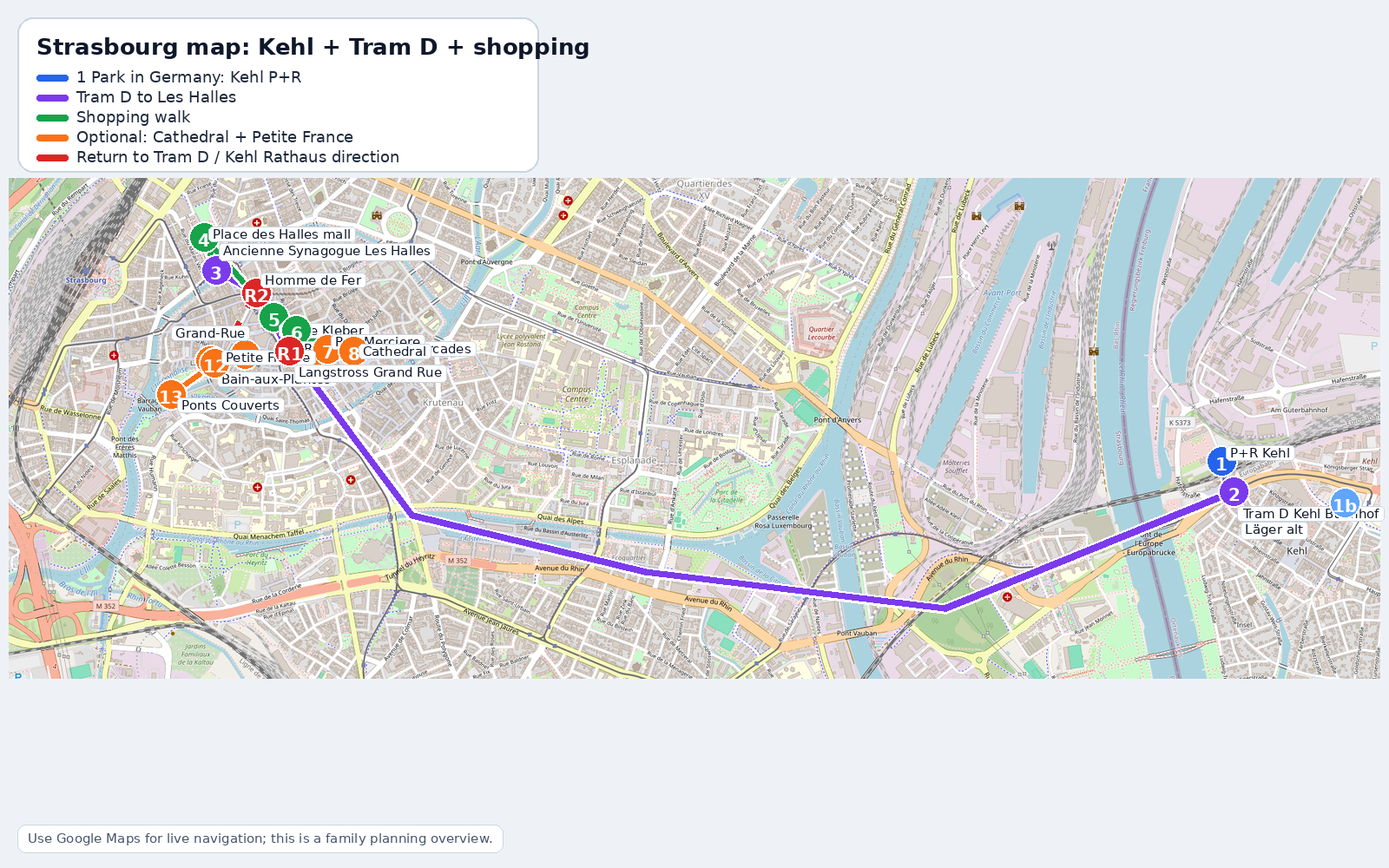
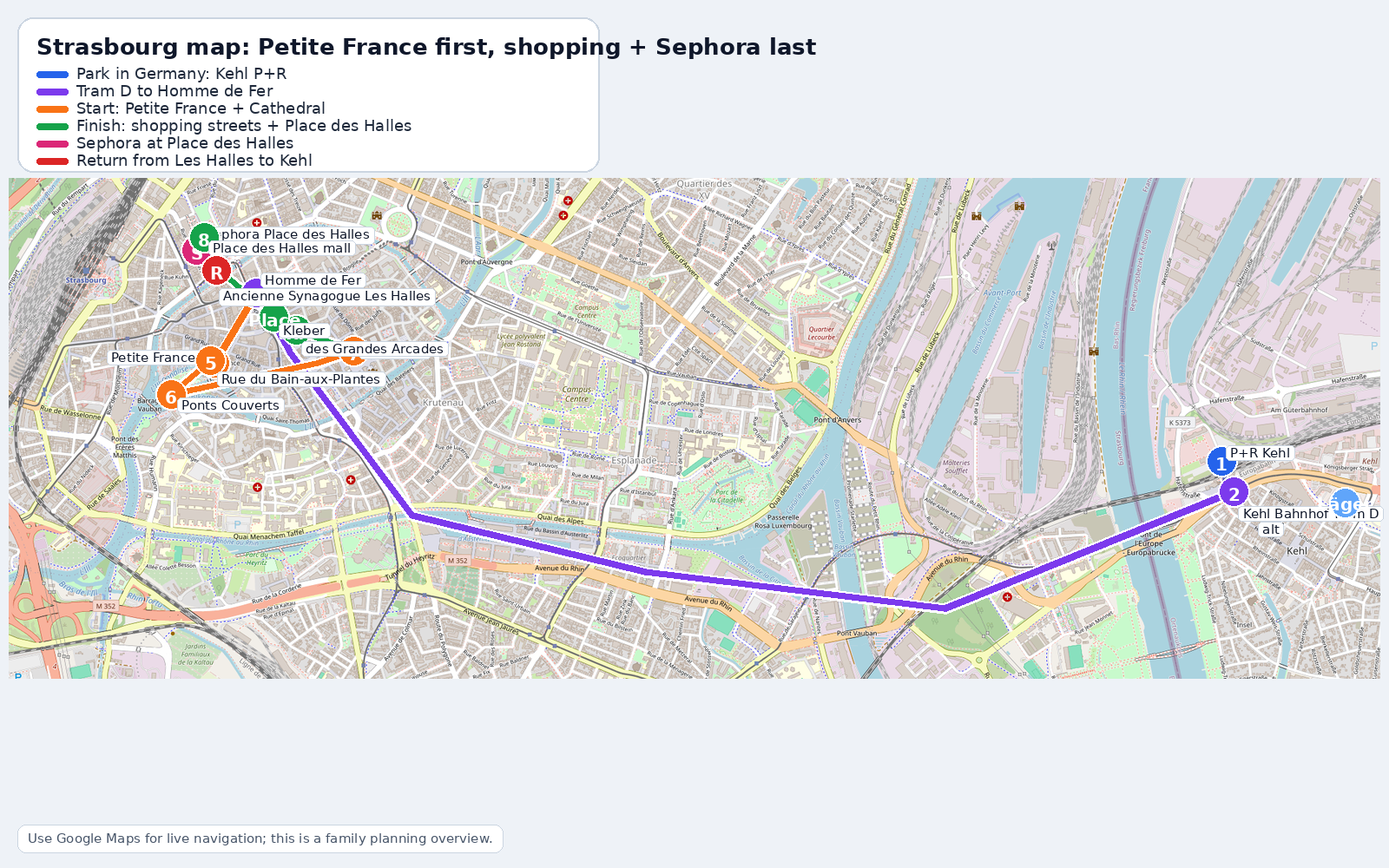
Update Strasbourg route for Petite France and Sephora

Changed region(s): [[0.0625, 0.248, 0.3438, 0.465], [0.0, 0.031, 0.5938, 0.186], [0.875, 0.558, 1.0, 0.62]]

diff --git a/index.html b/index.html
@@ -114,7 +114,7 @@
 <details class="day" id="day-2026-09-29" data-trip-date="2026-09-29"><summary><div class="date">29.09<small>שלישי</small></div><div class="day-photo"><img src="assets/europa_park_new.jpg" alt="Europa-Park"></div><div class="day-title"><h3>Europa-Park</h3><p>יום פארק מלא — השיא הראשון מבסיס Hotel La Toscana.</p></div><div class="tap"><span>פתח פרטים <b class="chev">⌄</b></span></div></summary><div class="day-details"><div class="detail-grid"><div class="detail-box"><h4>תוכנית היום</h4><ol><li>08:30–08:45 — להגיע מוקדם, אחרי ארוחת בוקר קצרה, עם כרטיסים וחניה מוכנים מראש.</li><li>09:00–18:00 — <a class="attraction-link ltr" target="_blank" rel="noopener" href="https://www.europapark.de/en/theme-park">Europa-Park</a> יום מלא.</li><li>להתחיל במתקנים הגדולים לפי עומס: Voltron, Blue Fire, WODAN ו־Silver Star, בלי לקפוץ כל הזמן בין קצוות הפארק.</li><li>להשתמש ב־VirtualLine וב־Single Rider כשזה מתאים, במיוחד לסיבוב שני או כשלא חייבים לשבת יחד.</li><li>אמצע היום — לעצור באזור שווייץ למילוי מים קרים, אוכל/מנוחה והתאפסות של הקבוצה. מים בפארק יקרים, לכן להביא בקבוקים נוחים למילוי חוזר.</li><li>ערב — ארוחת ערב בפארק, ב־Rust או ליד המלון ברינגסהיים.</li></ol><div class="card-actions nav-actions" data-nav-day="2026-09-29"><a class="map-link nav-link" target="_blank" rel="noopener" href="https://www.google.com/maps/dir/?api=1&origin=Hotel+La+Toscana%2C+Mahlberger+Strasse+6%2C+77975+Ringsheim%2C+Germany&destination=Europa-Park+Rust&travelmode=driving">נווט מהמלון ל־Europa-Park</a><a class="map-link food-link" target="_blank" rel="noopener" href="https://www.google.com/maps/search/?api=1&query=restaurants+cafes+near+Hotel+La+Toscana+Ringsheim+Germany">מסעדות ובתי קפה באזור</a><a class="planning-link" href="#guide-europa-park">פתח מדריך Europa-Park</a></div></div><div class="detail-box"><h4>טיפים לקבוצה גדולה</h4><ul><li>להפעיל שיתוף מיקום משפחתי בתחילת היום, אבל לא לסמוך רק על WhatsApp אחרי הרבה שעות.</li><li>להגיע עם Powerbank, טלפונים טעונים ונקודת מפגש ברורה.</li><li>לקנות כרטיס חניה מראש ולשמור בטלפון את מיקום הרכב בחניון.</li><li>זה יום שלישי — עדיף מסוף שבוע מבחינת עומס פוטנציאלי.</li></ul></div></div></div></details>
 <details class="day" id="day-2026-09-30" data-trip-date="2026-09-30"><summary><div class="date">30.09<small>רביעי</small></div><div class="day-photo"><img src="assets/monkey_mountain.jpg" alt="Montagne des Singes"></div><div class="day-title"><h3>אלזס: Colmar, קופים וכפר לבחירה</h3><p>קולמר בבוקר, פארק הקופים בצהריים, ואז כפר אלזסי אחד: Kaysersberg / Riquewihr / Ribeauvillé.</p></div><div class="tap"><span>פתח פרטים <b class="chev">⌄</b></span></div></summary><div class="day-details"><div class="detail-grid"><div class="detail-box"><h4>תוכנית היום</h4><ol><li>09:30–12:30 — <a class="attraction-link ltr" target="_blank" rel="noopener" href="https://www.tourisme-colmar.com/en/">Colmar</a>: מתחילים מסודר לפי בחירת הקבוצה.<ul><li><strong>ברירת מחדל לקבוצה:</strong> חונים קודם ב־Parking Woelfelin ברחוב Rue Woelfelin — הכי קרוב לאזור האיסוף של הרכבת הקטנה ב־Rue Kléber / Unterlinden ליד Monoprix. אם הוא מלא, עוברים ל־Parking Rapp / Place Rapp. עושים סיור ברכבת הירוקה כ־35 דקות עם אוזניות ו־16 שפות כולל עברית, ואז סיבוב קצר ב־La Petite Venise.</li><li><strong>אם רוצים רק שיטוט ברגל:</strong> מוותרים על הרכבת ועושים La Petite Venise + העיר העתיקה בקצב חופשי. במקרה כזה Parking Montagne Verte קרוב יותר, אבל כפתורי הניווט כאן מכוונים לאופציית הרכבת.</li><li><a class="attraction-link ltr" target="_blank" rel="noopener" href="https://www.colmarentrain.fr/en/online-reservation/">כרטיסים לרכבת הירוקה: אונליין באשראי או במקום במזומן</a>.</li></ul></li><li>13:00–15:00 — <a class="attraction-link ltr" target="_blank" rel="noopener" href="https://www.montagnedessinges.com/en/">Montagne des Singes</a>: הליכה ביער עם קופים שמסתובבים חופשי.</li><li>15:30–17:00 — לבחור כפר אלזסי אחד: <a class="attraction-link ltr" target="_blank" rel="noopener" href="https://www.kaysersberg.com/en/">Kaysersberg</a> אם רוצים כרמים, טירה ואווירה רגועה, או <a class="attraction-link ltr" target="_blank" rel="noopener" href="https://www.ribeauville-riquewihr.com/en/">Riquewihr / Ribeauvillé</a> אם מעדיפים את הקלאסיקה של דרך היין.</li><li>חזרה ל־Hotel La Toscana ברינגסהיים.</li></ol><div class="card-actions nav-actions" data-nav-day="2026-09-30"><a class="map-link nav-link" target="_blank" rel="noopener" href="https://www.google.com/maps/dir/?api=1&origin=Hotel+La+Toscana%2C+Mahlberger+Strasse+6%2C+77975+Ringsheim%2C+Germany&destination=Parking+Woelfelin%2C+Rue+Woelfelin%2C+Colmar%2C+France&travelmode=driving">נווט ל־Parking Woelfelin / נקודת איסוף הרכבת</a><a class="map-link nav-link" target="_blank" rel="noopener" href="https://www.google.com/maps/dir/?api=1&origin=Parking+Woelfelin%2C+Rue+Woelfelin%2C+Colmar%2C+France&destination=Montagne+des+Singes%2C+Kintzheim%2C+France&travelmode=driving">נווט מ־Parking Woelfelin לפארק הקופים</a><a class="map-link nav-link" target="_blank" rel="noopener" href="https://www.google.com/maps/dir/?api=1&origin=Parking+Woelfelin%2C+Rue+Woelfelin%2C+Colmar%2C+France&destination=Place+Gouraud%2C+Kaysersberg%2C+France&travelmode=driving">נווט מ־Parking Woelfelin לחניית Place Gouraud / Kaysersberg</a><a class="map-link nav-link" target="_blank" rel="noopener" href="https://www.google.com/maps/dir/?api=1&origin=Parking+Woelfelin%2C+Rue+Woelfelin%2C+Colmar%2C+France&destination=Parking+du+Vignoble%2C+Riquewihr%2C+France&travelmode=driving">נווט מ־Parking Woelfelin ל־Parking du Vignoble / Riquewihr</a><a class="map-link nav-link" target="_blank" rel="noopener" href="https://www.google.com/maps/dir/?api=1&origin=Parking+Woelfelin%2C+Rue+Woelfelin%2C+Colmar%2C+France&destination=Parking+Herrengarten%2C+Ribeauvill%C3%A9%2C+France&travelmode=driving">נווט מ־Parking Woelfelin ל־Parking Herrengarten / Ribeauvillé</a><a class="map-link food-link" target="_blank" rel="noopener" href="https://www.google.com/maps/search/?api=1&query=restaurants+cafes+near+Parking+Woelfelin+Rue+Kleber+Colmar+France">מסעדות ובתי קפה באזור</a></div></div><div class="detail-box"><h4>איך עושים את קולמר בלי בלגן</h4><ul><li><strong>בחירה קלה לקבוצה:</strong> Parking Woelfelin → רכבת ירוקה קצרה → סיבוב קצר ב־La Petite Venise. אם Woelfelin מלא, עוברים ל־Parking Rapp.</li><li><strong>בחירה רגלית:</strong> לוותר על הרכבת ולטייל רק ב־La Petite Venise / העיר העתיקה; במקרה כזה Parking Montagne Verte קרוב יותר.</li><li>אחרי קולמר ממשיכים לפארק הקופים ואז בוחרים כפר אלזסי אחד בלבד.</li><li>לא לדחוס גם את Strasbourg ליום הזה.</li></ul></div></div></div></details>
 <details class="day" id="day-2026-10-01" data-trip-date="2026-10-01"><summary><div class="date">01.10<small>חמישי</small></div><div class="day-photo"><img src="assets/rulantica_new.jpg" alt="Rulantica או Europa-Park"></div><div class="day-title"><h3>Rulantica או יום נוסף ב־Europa-Park</h3><p>יום בחירה לפי מזג אוויר ורצון הקבוצה.</p></div><div class="tap"><span>פתח פרטים <b class="chev">⌄</b></span></div></summary><div class="day-details"><div class="detail-grid"><div class="detail-box"><h4>תוכנית היום</h4><ol><li>אפשרות א׳ — <a class="attraction-link ltr" target="_blank" rel="noopener" href="https://www.europapark.de/en/rulantica">Rulantica</a>: 10:00–16:00 או יותר, פארק מים מקורה/גדול עם מגלשות, בריכת גלים, נהרות ומסעדות.</li><li>אפשרות ב׳ — <a class="attraction-link ltr" target="_blank" rel="noopener" href="https://www.europapark.de/en/theme-park">Europa-Park</a> יום שני: מתקנים שלא הספקנו, חזרה למועדפים, מופעים וקצב רגוע יותר.</li><li>בבוקר או ערב קודם מקבלים החלטה לפי תחזית מזג האוויר, עייפות, ומה הילדים/הקבוצה רוצים.</li><li>אם בוחרים Rulantica — להזמין/לוודא כרטיסים מראש.</li></ol><div class="card-actions nav-actions" data-nav-day="2026-10-01"><a class="map-link nav-link" target="_blank" rel="noopener" href="https://www.google.com/maps/dir/?api=1&origin=Hotel+La+Toscana%2C+Mahlberger+Strasse+6%2C+77975+Ringsheim%2C+Germany&destination=Rulantica+Rust&travelmode=driving">נווט מהמלון ל־Rulantica</a><a class="map-link nav-link" target="_blank" rel="noopener" href="https://www.google.com/maps/dir/?api=1&origin=Hotel+La+Toscana%2C+Mahlberger+Strasse+6%2C+77975+Ringsheim%2C+Germany&destination=Europa-Park+Rust&travelmode=driving">נווט מהמלון ל־Europa-Park</a><a class="map-link food-link" target="_blank" rel="noopener" href="https://www.google.com/maps/search/?api=1&query=restaurants+cafes+near+Hotel+La+Toscana+Ringsheim+Germany">מסעדות ובתי קפה באזור</a></div><div class="tip">זה השינוי המרכזי: Rulantica מוצג כאופציה, לא כיום חובה.</div></div><div class="detail-box"><h4>כלל החלטה פשוט</h4><ul><li>גשום/קר/עייפים מהליכה: Rulantica.</li><li>מזג אוויר טוב ורוצים עוד מתקנים: Europa-Park יום נוסף.</li><li>לא לקנות כרטיסים יקרים לשתי האופציות בלי החלטה מסודרת.</li></ul></div></div></div></details>
-<details class="day" id="day-2026-10-02" data-trip-date="2026-10-02"><summary><div class="date">02.10<small>שישי</small></div><div class="day-photo"><img src="assets/strasbourg.jpg" alt="Strasbourg"></div><div class="day-title"><h3>Strasbourg — קניות דרך Kehl + Tram D</h3><p>חונים בגרמניה, עולים על Tram D, מתחילים ב־Place des Halles ומוסיפים Cathedral / Petite France רק אם יש כוח.</p></div><div class="tap"><span>פתח פרטים <b class="chev">⌄</b></span></div></summary><div class="day-details"><div class="detail-grid"><div class="detail-box"><h4>תוכנית היום</h4><ol><li>09:30 — יציאה מ־<span class="ltr">Hotel La Toscana</span> לכיוון <span class="ltr">Kehl Bahnhof</span> בגרמניה.</li><li>10:10–10:20 — חניה ב־<strong>Park-and-Ride behind Kehl Bahnhof</strong>. אם מלא: חלופה ב־<span class="ltr">Parkplatz Läger</span>.</li><li>10:20–10:35 — לקנות/להפעיל כרטיסי CTS, לצלם את מיקום הרכב וללכת לרציף.</li><li>10:35 — לעלות על <strong>Tram D direction Poteries</strong> בתחנת <span class="ltr">Kehl Bahnhof</span>.</li><li>בערך 11:00 — לרדת ב־<strong>Ancienne Synagogue Les Halles</strong> ולהתחיל ב־<strong>Centre Commercial Place des Halles</strong>: שירותים, קפה, אוכל קל וקניות.</li><li>אחרי הקניון — ללכת ל־<strong>Place Kléber</strong>, ואז לרחובות הקניות <span class="ltr">Rue des Grandes Arcades</span>, <span class="ltr">Grand-Rue</span>, <span class="ltr">Rue de la Haute-Montée</span> ו־<span class="ltr">Galeries Lafayette</span>.</li><li>אם יש כוח: ללכת ל־<strong>Cathedral</strong> דרך <span class="ltr">Rue des Grandes Arcades → Rue Mercière</span>.</li><li>אם עדיין יש כוח: להמשיך ל־<strong>Petite France</strong> דרך <span class="ltr">Place Gutenberg / Grand-Rue</span>, ואז <span class="ltr">Rue du Bain-aux-Plantes</span> ו־<span class="ltr">Ponts Couverts</span>.</li><li>חזרה: מ־<strong>Homme de Fer</strong> או <strong>Langstross Grand’Rue</strong> לקחת <strong>Tram D direction Kehl Rathaus</strong> ולרדת ב־<strong>Kehl Bahnhof</strong>.</li></ol><div class="card-actions nav-actions" data-nav-day="2026-10-02"><a class="map-link nav-link" target="_blank" rel="noopener" href="https://www.google.com/maps/dir/?api=1&origin=Hotel+La+Toscana%2C+Mahlberger+Strasse+6%2C+77975+Ringsheim%2C+Germany&destination=48.5772181%2C7.806575&travelmode=driving">נווט מהמלון ל־Kehl Bahnhof P+R</a><a class="map-link nav-link" target="_blank" rel="noopener" href="https://www.google.com/maps/dir/?api=1&origin=Hotel+La+Toscana%2C+Mahlberger+Strasse+6%2C+77975+Ringsheim%2C+Germany&destination=48.5754519%2C7.8144724&travelmode=driving">חניון חלופי Läger</a><a class="map-link nav-link" target="_blank" rel="noopener" href="https://www.google.com/maps/dir/?api=1&origin=Kehl+Bahnhof%2C+Kehl%2C+Germany&destination=Ancienne+Synagogue+Les+Halles%2C+Strasbourg%2C+France&travelmode=transit">Tram D: Kehl → Les Halles</a><a class="map-link nav-link" target="_blank" rel="noopener" href="https://www.google.com/maps/dir/?api=1&origin=Centre+Commercial+Place+des+Halles+Strasbourg&destination=Petite+France+Strasbourg&waypoints=Place+Kleber+Strasbourg%7CCathedrale+Notre+Dame+de+Strasbourg&travelmode=walking">הליכה: קניות → Cathedral → Petite France</a><a class="map-link nav-link" target="_blank" rel="noopener" href="https://www.google.com/maps/dir/?api=1&origin=Petite+France+Strasbourg&destination=Kehl+Bahnhof%2C+Kehl%2C+Germany&travelmode=transit">חזרה ל־Kehl ב־Tram D</a><a class="map-link food-link" target="_blank" rel="noopener" href="https://www.google.com/maps/search/?api=1&query=restaurants+cafes+near+Place+Kleber+Strasbourg">מסעדות ובתי קפה באזור</a><a class="planning-link" href="#guide-strasbourg">פתח מדריך Strasbourg</a></div></div><div class="detail-box"><h4>מפת המסלול</h4><a target="_blank" rel="noopener" href="assets/strasbourg_kehl_tram_shopping_map_2026-08-15_static.png"><img src="assets/strasbourg_kehl_tram_shopping_map_2026-08-15_static.png" alt="מפת Strasbourg דרך Kehl ו־Tram D" style="width:100%;border-radius:22px;display:block;box-shadow:0 12px 34px rgba(15,40,25,.14);border:1px solid rgba(0,0,0,.06)"></a><p>הצבעים במפה: כחול — חניה ב־Kehl; סגול — Tram D; ירוק — קניות; כתום — Cathedral / Petite France; אדום — חזרה ל־Tram D.</p></div><div class="detail-box"><h4>מה עושים כשיורדים ב־Les Halles</h4><ul><li>יורדים בתחנת <strong>Ancienne Synagogue Les Halles</strong>.</li><li>נכנסים ל־<strong>Place des Halles</strong> להתחלה רגועה: שירותים, קפה, אוכל קל וחנויות.</li><li>קובעים נקודת מפגש בכניסה הראשית או ליד חנות מרכזית בקניון.</li><li>משם ממשיכים רגלית ל־Place Kléber ורחובות הקניות.</li></ul></div><div class="detail-box"><h4>Cathedral ו־Petite France — רק אם נשאר כוח</h4><ul><li><strong>Cathedral:</strong> מ־Place Kléber הולכים דרך Rue des Grandes Arcades ואז Rue Mercière עד הכיכר של הקתדרלה.</li><li><strong>Petite France:</strong> מהקתדרלה ממשיכים דרך Place Gutenberg / Grand-Rue אל Rue du Bain-aux-Plantes והתעלות.</li><li><strong>חזרה:</strong> לא לחפש תחנה אקראית; הכי פשוט לחזור ל־Homme de Fer או Langstross Grand’Rue ולקחת Tram D ישיר ל־Kehl.</li></ul></div><div class="detail-box"><h4>כרטיסי Tram וקצב יום</h4><ul><li>ל־7 אנשים: לבדוק ביום עצמו, אבל לרוב נוח לשקול 2× <span class="ltr">24H TRIO</span> + שני כרטיסים בודדים לנוסע השביעי, או 3× <span class="ltr">24H TRIO</span> אם רוצים הכי פשוט.</li><li>להגדיר שעת חזרה מראש — זה יום לפני הטיסה וצריך להשאיר ערב לאריזה.</li><li>לא להיכנס עם הוואן לחניון מקורה בלי לבדוק גובה, ולא להכניס את הרכב ל־Strasbourg אם Crit’Air לא ברור.</li></ul></div></div></div></details>
+<details class="day" id="day-2026-10-02" data-trip-date="2026-10-02"><summary><div class="date">02.10<small>שישי</small></div><div class="day-photo"><img src="assets/strasbourg.jpg" alt="Strasbourg"></div><div class="day-title"><h3>Strasbourg — Petite France ואז Sephora / קניון</h3><p>חונים ב־Kehl, עולים על Tram D, מתחילים ב־Petite France היפה, עוברים דרך הקתדרלה ומסיימים ב־Sephora + Place des Halles.</p></div><div class="tap"><span>פתח פרטים <b class="chev">⌄</b></span></div></summary><div class="day-details"><div class="detail-grid"><div class="detail-box"><h4>תוכנית היום</h4><ol><li>09:30 — יציאה מ־<span class="ltr">Hotel La Toscana</span> לכיוון <span class="ltr">Kehl Bahnhof</span> בגרמניה.</li><li>10:10–10:20 — חניה ב־<strong>Park-and-Ride behind Kehl Bahnhof</strong>. אם מלא: חלופה ב־<span class="ltr">Parkplatz Läger</span>.</li><li>10:20–10:35 — לקנות/להפעיל כרטיסי CTS, לצלם את מיקום הרכב וללכת לרציף.</li><li>10:35 — לעלות על <strong>Tram D direction Poteries</strong> בתחנת <span class="ltr">Kehl Bahnhof</span>.</li><li>בערך 11:00 — לרדת ב־<strong>Homme de Fer</strong> ולהתחיל את היום ב־<strong>Petite France</strong>.</li><li>11:00–12:15 — Petite France: <span class="ltr">Rue du Bain-aux-Plantes</span>, התעלות ו־<span class="ltr">Ponts Couverts</span> אם יש כוח.</li><li>12:15–13:00 — הליכה ל־<strong>Cathedral</strong> דרך Grand-Rue / Place Gutenberg / Rue Mercière, תמונות וביקור קצר אם מתאים.</li><li>13:00–14:00 — אוכל / קפה במרכז.</li><li>14:00–16:30 — קניות: <span class="ltr">Rue des Grandes Arcades</span>, <span class="ltr">Place Kléber</span>, ואז <strong>Sephora ב־Place des Halles</strong> ו־<strong>Centre Commercial Place des Halles</strong>.</li><li>חזרה: מתחנת <strong>Ancienne Synagogue Les Halles</strong> לקחת <strong>Tram D direction Kehl Rathaus</strong> ולרדת ב־<strong>Kehl Bahnhof</strong>.</li></ol><div class="card-actions nav-actions" data-nav-day="2026-10-02"><a class="map-link nav-link" target="_blank" rel="noopener" href="https://www.google.com/maps/dir/?api=1&origin=Hotel+La+Toscana%2C+Mahlberger+Strasse+6%2C+77975+Ringsheim%2C+Germany&destination=48.5772181%2C7.806575&travelmode=driving">נווט מהמלון ל־Kehl Bahnhof P+R</a><a class="map-link nav-link" target="_blank" rel="noopener" href="https://www.google.com/maps/dir/?api=1&origin=Hotel+La+Toscana%2C+Mahlberger+Strasse+6%2C+77975+Ringsheim%2C+Germany&destination=48.5754519%2C7.8144724&travelmode=driving">חניון חלופי Läger</a><a class="map-link nav-link" target="_blank" rel="noopener" href="https://www.google.com/maps/dir/?api=1&origin=Kehl+Bahnhof%2C+Kehl%2C+Germany&destination=Homme+de+Fer%2C+Strasbourg%2C+France&travelmode=transit">Tram D: Kehl → Homme de Fer</a><a class="map-link nav-link" target="_blank" rel="noopener" href="https://www.google.com/maps/dir/?api=1&origin=Homme+de+Fer+Strasbourg&destination=Sephora+Place+des+Halles+Strasbourg&waypoints=Petite+France+Strasbourg%7CCathedrale+Notre+Dame+de+Strasbourg%7CPlace+Kleber+Strasbourg&travelmode=walking">הליכה: Petite France → Cathedral → Sephora</a><a class="map-link nav-link" target="_blank" rel="noopener" href="https://www.google.com/maps/dir/?api=1&origin=Ancienne+Synagogue+Les+Halles%2C+Strasbourg&destination=Kehl+Bahnhof%2C+Kehl%2C+Germany&travelmode=transit">חזרה מ־Les Halles ל־Kehl</a><a class="map-link food-link" target="_blank" rel="noopener" href="https://www.google.com/maps/search/?api=1&query=restaurants+cafes+near+Place+Kleber+Strasbourg">מסעדות ובתי קפה באזור</a><a class="planning-link" href="#guide-strasbourg">פתח מדריך Strasbourg</a></div></div><div class="detail-box"><h4>מפת המסלול</h4><a target="_blank" rel="noopener" href="assets/strasbourg_kehl_tram_shopping_map_2026-08-15_static.png"><img src="assets/strasbourg_kehl_tram_shopping_map_2026-08-15_static.png" alt="מפת Strasbourg: Petite France, Cathedral, Sephora ו־Place des Halles" style="width:100%;border-radius:22px;display:block;box-shadow:0 12px 34px rgba(15,40,25,.14);border:1px solid rgba(0,0,0,.06)"></a><p>הצבעים במפה: כחול — חניה ב־Kehl; סגול — Tram D ל־Homme de Fer; כתום — Petite France + Cathedral; ירוק — רחובות קניות ו־Place des Halles; ורוד — Sephora; אדום — חזרה ל־Tram D.</p></div><div class="detail-box"><h4>מה עושים כשיורדים ב־Homme de Fer</h4><ul><li>לא מתחילים בקניון — הפעם מתחילים יפה: הולכים ל־<strong>Petite France</strong>.</li><li>עושים סיבוב קצר ב־Rue du Bain-aux-Plantes, התעלות ו־Ponts Couverts אם מתאים.</li><li>משם ממשיכים ל־Cathedral, ואז עוברים בהדרגה לאזור הקניות.</li></ul></div><div class="detail-box"><h4>Sephora וקניות בסוף</h4><ul><li>ה־Sephora הכי נוח למסלול הזה נמצא ב־<strong>Place des Halles</strong>, כך שהוא יושב בדיוק בסוף היום.</li><li>דף Place des Halles מציג את Sephora עם שעות שני–שבת 09:00–20:00 בזמן הבדיקה.</li><li>הקניון הוא נקודת סיום טובה: שירותים, אוכל, קפה, נקודת מפגש, ותחנת Tram D קרובה לחזרה.</li></ul></div><div class="detail-box"><h4>קצב יום</h4><ul><li>לא למשוך את Petite France יותר מדי אם רוצים להספיק Sephora וקניות בנחת.</li><li>אם הקבוצה עייפה: לקצר Cathedral, לא לקצר את נקודת הסיום בקניון.</li><li>לא להיכנס עם הוואן למרכז Strasbourg אם Crit’Air לא ברור, ולא להיכנס לחניון מקורה בלי לבדוק גובה.</li></ul></div></div></div></details>
 <details class="day" id="day-2026-10-03" data-trip-date="2026-10-03"><summary><div class="date">03.10<small>שבת</small></div><div class="day-photo"><img src="assets/zurich_airport.jpg" alt="Zurich Airport"></div><div class="day-title"><h3>חזרה לציריך וטיסה 18:45</h3><p>יום לוגיסטי רגוע: צ׳ק־אאוט, יציאה סביב 11:45–12:00, תדלוק ליד השדה והחזרת הרכב ב־15:30.</p></div><div class="tap"><span>פתח פרטים <b class="chev">⌄</b></span></div></summary><div class="day-details"><div class="detail-grid"><div class="detail-box"><h4>תוכנית היום</h4><ol><li>10:00–10:30 — לסיים ארוחת בוקר, לסגור מזוודות ולהתחיל העמסת רכבים.</li><li>10:30–11:30 — צ׳ק־אאוט מסודר מ־<span class="ltr">Hotel La Toscana</span>, בדיקת חדרים, שירותים אחרונים וסגירת תשלום/קבלה אם צריך.</li><li><strong>11:45–12:00 — יציאה מומלצת מהמלון.</strong> אם רוצים עוד יותר מרווח, לצאת סביב 11:30.</li><li>14:15–14:45 — הגעה לאזור Zurich Airport לפי תנועה רגילה, עם זמן התאוששות לפני החזרת הרכב.</li><li>14:45–15:15 — תדלוק ליד השדה ואז נסיעה ישירה ל־Rental Car Return.</li><li><strong>15:30 — יעד להחזרת Europcar.</strong> לשמור זמן לצילום מצב הרכב, פריקת מזוודות והגעה לטרמינל.</li><li>15:45–16:00 — להיות כבר באזור הצ׳ק־אין / טרמינל.</li><li>18:45 — טיסה מציריך.</li></ol><div class="card-actions nav-actions" data-nav-day="2026-10-03"><a class="map-link nav-link" target="_blank" rel="noopener" href="https://www.google.com/maps/dir/?api=1&origin=Hotel+La+Toscana%2C+Mahlberger+Strasse+6%2C+77975+Ringsheim%2C+Germany&destination=Zurich+Airport%2C+Switzerland&travelmode=driving">נווט מהמלון ל־Zurich Airport</a><a class="map-link nav-link" target="_blank" rel="noopener" href="https://www.google.com/maps/search/?api=1&query=gas+station+near+Zurich+Airport+rental+car+return">תחנות דלק ליד Zurich Airport</a><a class="map-link nav-link" target="_blank" rel="noopener" href="https://www.google.com/maps/dir/?api=1&destination=Zurich+Airport+Rental+Car+Center%2C+Kloten%2C+Switzerland&travelmode=driving">נווט להחזרת הרכב / Rental Car Center</a><a class="map-link food-link" target="_blank" rel="noopener" href="https://www.google.com/maps/search/?api=1&query=restaurants+cafes+near+Zurich+Airport+Switzerland">קפה / אוכל ליד השדה</a></div></div><div class="detail-box"><h4>למה לצאת ב־11:45–12:00?</h4><ul><li>הנסיעה מ־Hotel La Toscana לשדה בציריך היא בערך 186 ק״מ / 2:22 שעות בלי פקקים.</li><li>הלו״ז משאיר מרווח לתנועה, גבול, תדלוק, פריקת מזוודות והחזרת הרכב בלי ריצה.</li><li>לא לתכנן קניות אמיתיות ביום הזה — רק קפה/ארוחה קצרה אם מגיעים מוקדם מהצפוי.</li><li>לפני יציאה: דרכונים, כרטיסי טיסה, טלפונים טעונים, חוזה הרכב וכתובת החזרת הרכב ב־Google Maps.</li></ul></div></div></div></details>
 </div></section>
 <section id="attractions" class="section shell"><div class="section-soft"><div class="section-head"><div><div class="overline">יותר אקשן לילדים</div><h2>אטרקציות פעילות בסביבה</h2></div><p class="section-note">במקום מוזיאונים ונופים בלבד: מקומות שבהם הילדים מטפסים, קופצים, גולשים, משחקים ורצים. סימון <strong>🎟 Red Card</strong> אומר שהאטרקציה מופיעה ברשימת Hochschwarzwald Card; ירוק = מחיר Card/הטבה מוזלת. <a target="_blank" href="https://www.hochschwarzwald.de/en/red-card/red-card-attractions">רשימת Red Card הרשמית</a> · <a target="_blank" href="red-card-attractions-reference.md">עותק ייחוס מלא ששמרתי</a>.</p></div><div class="planning-grid">
@@ -140,7 +140,7 @@
 
 <section id="shopping" class="section shell"><div class="section-head"><div><div class="overline">אפשרויות קנייה שונות</div><h2>קניות</h2></div><p class="section-note">כמה רעיונות לקניות לפי מצב הרוח: מרכזי עיר נעימים, בוטיקים ומזכרות, חנויות יופי, אאוטלט למותגים וקניות פרקטיות ליד הלינה.</p></div><div class="planning-grid">
   <article class="planning-card"><span class="planning-badge">עירוני ונוח</span><img src="assets/freiburg_muenster.jpg" alt="קניות בפרייבורג"><div class="planning-card-body"><h3>Freiburg — מרכז העיר</h3><p>אפשרות טובה לקניות עירוניות בלי להיכנס לעיר ענקית: רחובות מרכזיים, בתי קפה, חנויות אופנה ומוצרים יומיומיים. ב־25–26.09 זה מתחבר גם ל־Fashion & Food Festival.</p><ul><li>מתאים אם רוצים שינוי מהאגמים והיערות.</li><li>לשלב עם כיכר הקתדרלה וארוחה קלה.</li><li>בימי הפסטיבל לבדוק את דף ה־Spots והפעילויות לפני היציאה.</li></ul><div class="card-actions"><a class="planning-link" target="_blank" href="https://www.google.com/maps/search/?api=1&query=Kaiser-Joseph-Strasse+Freiburg+shopping">פתח במפה</a><a class="planning-link" target="_blank" rel="noopener" href="https://www.fashion-food-festival.de/">אתר הפסטיבל</a></div></div></article>
-  <article class="planning-card"><span class="planning-badge">קניון + רחובות קניות</span><img src="assets/strasbourg_shopping.jpg" alt="קניות ושופינג בשטרסבורג"><div class="planning-card-body"><h3>Strasbourg — Place des Halles + מרכז</h3><p>יום הקניות המרכזי: חונים ב־Kehl בגרמניה, Tram D ל־Ancienne Synagogue Les Halles, מתחילים בקניון Place des Halles וממשיכים ל־Place Kléber ורחובות הקניות.</p><ul><li>ברירת מחדל נוחה לוואן: לא להיכנס עם הרכב למרכז Strasbourg.</li><li>אם נשאר כוח: Cathedral ואז Petite France במסלול רגלי קצר.</li></ul><a class="planning-link" href="#day-2026-10-02">פתח את יום Strasbourg</a></div></article>
+  <article class="planning-card"><span class="planning-badge">Sephora + קניון</span><img src="assets/strasbourg_shopping.jpg" alt="קניות ושופינג בשטרסבורג"><div class="planning-card-body"><h3>Strasbourg — Petite France ואז קניות</h3><p>המסלול החדש: מתחילים ב־Petite France, ממשיכים ל־Cathedral, ואז מסיימים באזור Rue des Grandes Arcades / Place Kléber / Sephora / Place des Halles.</p><ul><li>ה־Sephora הנוח יושב ב־Place des Halles, בדיוק בסוף המסלול.</li><li>חוזרים מ־Ancienne Synagogue Les Halles עם Tram D ל־Kehl.</li></ul><a class="planning-link" href="#day-2026-10-02">פתח את יום Strasbourg</a></div></article>
   <article class="planning-card"><span class="planning-badge">בוטיקים ואווירה</span><img src="assets/colmar_shopping.jpg" alt="חנויות בעיר העתיקה של קולמר"><div class="planning-card-body"><h3>Colmar — בוטיקים ומזכרות</h3><p>לא “יום קניות” רשמי, אלא קניות קטנות תוך כדי יום אלזס: חנויות עיצוב, מתוקים, מזכרות ותמונות בין הרחובות הצבעוניים.</p><ul><li>מתאים לעצירה קצרה בין צילום לקפה.</li><li>לא להעמיס שקיות לפני המשך היום.</li></ul><a class="planning-link" target="_blank" href="https://www.google.com/maps/search/?api=1&query=shops+near+Rue+des+Clefs+Colmar+France">פתח במפה</a></div></article>
   <article class="planning-card"><span class="planning-badge">מותגים</span><img src="assets/roppenheim_outlet.jpg" alt="Roppenheim The Style Outlets"><div class="planning-card-body"><h3>Roppenheim The Style Outlets</h3><p>אופציה למותגים ואאוטלט, אבל רק אם ממש רוצים. זה לא “על הדרך” באופן מושלם, ולכן צריך להישאר בחירה מודעת.</p><ul><li>דיטור ביום מעבר, לא חובה.</li><li>לקבוע זמן מקסימום מראש.</li></ul><a class="planning-link" target="_blank" href="https://www.google.com/maps/search/?api=1&query=Roppenheim+The+Style+Outlets">פתח במפה</a></div></article>
   <article class="planning-card"><span class="planning-badge">מזכרות</span><img src="assets/titisee_candidate_1.jpg" alt="חנויות ומזכרות בטיטיזה"><div class="planning-card-body"><h3>Titisee — מזכרות ושוקולד</h3><p>קניות קטנות בלי נסיעה: שעוני קוקייה, שוקולד, גלידה, צעצועים ומזכרות סביב הטיילת. טוב לילדים כי זה קצר וברור.</p><ul><li>משתלב ביום אגם רגוע.</li><li>לא דורש תכנון מיוחד.</li></ul><a class="planning-link" target="_blank" href="https://www.google.com/maps/search/?api=1&query=souvenir+shops+near+Kurhaus-Parkplatz+Titisee">פתח במפה</a></div></article>
@@ -504,20 +504,19 @@
   <details id="guide-strasbourg" class="guide-accordion">
     <summary>
       <span class="guide-thumb"><img src="assets/strasbourg.jpg" alt="Strasbourg"></span>
-      <span class="guide-summary-main"><span class="overline">יום 11 · 02.10</span><h3>Strasbourg דרך Kehl + Tram D</h3><p>קניות, Cathedral ו־Petite France בלי להיכנס עם הרכב למרכז</p><span class="guide-status-row"><span class="guide-badge red-not">Red Card: לא כלול בכרטיס האדום</span><span class="guide-badge red-not">Black Card: לא כלול ב־SchwarzwaldCard</span></span></span>
+      <span class="guide-summary-main"><span class="overline">יום 11 · 02.10</span><h3>Strasbourg: Petite France → Sephora</h3><p>מתחילים בצרפת הקטנה ומסיימים בקניות / Place des Halles</p><span class="guide-status-row"><span class="guide-badge red-not">Red Card: לא כלול בכרטיס האדום</span><span class="guide-badge red-not">Black Card: לא כלול ב־SchwarzwaldCard</span></span></span>
       <span class="guide-open-indicator"><span class="closed">פתח מדריך</span><span class="opened">סגור מדריך</span></span>
     </summary>
     <div class="guide-body">
       <div class="guide-facts-grid">
-        <div class="guide-info-card"><h4>שורת ביצוע</h4><p>חונים ב־Kehl Bahnhof בגרמניה, עולים על Tram D לכיוון Poteries, יורדים ב־Ancienne Synagogue Les Halles ומתחילים ב־Place des Halles.</p></div>
-        <div class="guide-info-card"><h4>למה Kehl?</h4><p>כך נמנעים מחיפוש חניה במרכז Strasbourg, מגובה חניונים בעייתי לוואן, ומאי־ודאות סביב Crit’Air / ZFE לרכב שכור משווייץ.</p></div>
-        <div class="guide-info-card"><h4>קניות</h4><p>Place des Halles → Place Kléber → Rue des Grandes Arcades / Grand-Rue / Rue de la Haute-Montée / Galeries Lafayette.</p></div>
-        <div class="guide-info-card"><h4>Cathedral</h4><p>מ־Place Kléber הולכים דרך Rue des Grandes Arcades ו־Rue Mercière עד Place de la Cathédrale.</p></div>
-        <div class="guide-info-card"><h4>Petite France</h4><p>אם נשאר כוח: Cathedral → Place Gutenberg / Grand-Rue → Rue du Bain-aux-Plantes → Ponts Couverts.</p></div>
-        <div class="guide-info-card"><h4>חזרה</h4><p>מ־Homme de Fer או Langstross Grand’Rue לוקחים Tram D direction Kehl Rathaus ויורדים ב־Kehl Bahnhof.</p></div>
-        <div class="guide-info-card tip"><h4>מפת יום</h4><p><a target="_blank" rel="noopener" href="assets/strasbourg_kehl_tram_shopping_map_2026-08-15_static.png">פתחו את מפת המסלול</a> כדי לראות את החניה, ה־Tram, הקניון, הקתדרלה ו־Petite France באותו מבט.</p></div>
+        <div class="guide-info-card"><h4>שורת ביצוע</h4><p>חונים ב־Kehl Bahnhof, Tram D לכיוון Poteries, יורדים ב־Homme de Fer, מתחילים ב־Petite France ומסיימים ב־Sephora / Place des Halles.</p></div>
+        <div class="guide-info-card"><h4>למה להתחיל ב־Petite France?</h4><p>זה החלק הכי יפה של היום. עדיף לראות אותו כשכולם רעננים, ואז לתת לקניות להיות סוף טבעי וקל.</p></div>
+        <div class="guide-info-card"><h4>Cathedral</h4><p>מ־Petite France ממשיכים דרך Grand-Rue / Place Gutenberg / Rue Mercière עד כיכר הקתדרלה.</p></div>
+        <div class="guide-info-card"><h4>Sephora</h4><p>הסניף הנוח למסלול הוא Sephora ב־Place des Halles. לפי דף הקניון, שעות הפעילות שמופיעות עכשיו הן שני–שבת 09:00–20:00.</p></div>
+        <div class="guide-info-card"><h4>סיום וחזרה</h4><p>מסיימים בקניון Place des Halles, הולכים ל־Ancienne Synagogue Les Halles, ואז Tram D direction Kehl Rathaus חזרה ל־Kehl Bahnhof.</p></div>
+        <div class="guide-info-card tip"><h4>מפת יום</h4><p><a target="_blank" rel="noopener" href="assets/strasbourg_kehl_tram_shopping_map_2026-08-15_static.png">פתחו את מפת המסלול</a> כדי לראות את Petite France, הקתדרלה, Sephora והחזרה ל־Kehl באותו מבט.</p></div>
       </div>
-      <ul class="guide-source-list"><li><a target="_blank" rel="noopener" href="https://www.kehl.de/leben+in+kehl/mobilitaet/parken"><span>Kehl — חניה ו־Tram D</span><span class="guide-source-action">פתח מקור</span></a></li><li><a target="_blank" rel="noopener" href="https://www.cts-strasbourg.eu/en/cts-network-maps"><span>CTS — מפת רשת Tram</span><span class="guide-source-action">פתח מקור</span></a></li><li><a target="_blank" rel="noopener" href="https://www.cts-strasbourg.eu/en/buy/our-tickets/occasional-tickets"><span>CTS — כרטיסי נסיעה</span><span class="guide-source-action">פתח מקור</span></a></li><li><a target="_blank" rel="noopener" href="https://www.placedeshalles.com/fr/accueil/"><span>Place des Halles</span><span class="guide-source-action">פתח מקור</span></a></li><li><a target="_blank" rel="noopener" href="https://www.visitstrasbourg.fr/en/discover/shopping/"><span>Visit Strasbourg — Shopping</span><span class="guide-source-action">פתח מקור</span></a></li><li><a target="_blank" rel="noopener" href="https://www.visitstrasbourg.fr/en/discover/must-see-attractions/the-cathedral/"><span>קתדרלה</span><span class="guide-source-action">פתח מקור</span></a></li><li><a target="_blank" rel="noopener" href="https://www.visitstrasbourg.fr/en/discover/must-see-attractions/the-petite-france/"><span>Petite France</span><span class="guide-source-action">פתח מקור</span></a></li></ul>
+      <ul class="guide-source-list"><li><a target="_blank" rel="noopener" href="https://www.kehl.de/leben+in+kehl/mobilitaet/parken"><span>Kehl — חניה ו־Tram D</span><span class="guide-source-action">פתח מקור</span></a></li><li><a target="_blank" rel="noopener" href="https://www.cts-strasbourg.eu/en/cts-network-maps"><span>CTS — מפת רשת Tram</span><span class="guide-source-action">פתח מקור</span></a></li><li><a target="_blank" rel="noopener" href="https://www.cts-strasbourg.eu/en/buy/our-tickets/occasional-tickets"><span>CTS — כרטיסי נסיעה</span><span class="guide-source-action">פתח מקור</span></a></li><li><a target="_blank" rel="noopener" href="https://www.placedeshalles.com/fr/boutiques/sephora/"><span>Sephora — Place des Halles</span><span class="guide-source-action">פתח מקור</span></a></li><li><a target="_blank" rel="noopener" href="https://www.visitstrasbourg.fr/en/discover/shopping/"><span>Visit Strasbourg — Shopping</span><span class="guide-source-action">פתח מקור</span></a></li><li><a target="_blank" rel="noopener" href="https://www.visitstrasbourg.fr/en/discover/must-see-attractions/the-cathedral/"><span>קתדרלה</span><span class="guide-source-action">פתח מקור</span></a></li><li><a target="_blank" rel="noopener" href="https://www.visitstrasbourg.fr/en/discover/must-see-attractions/the-petite-france/"><span>Petite France</span><span class="guide-source-action">פתח מקור</span></a></li></ul>
     </div>
   </details>
   
@@ -688,7 +687,7 @@
   <article class="kid-card"><img src="assets/europa_park_new.jpg" alt="יום 8 — Europa-Park"><div><span class="kid-icon">🎡</span><h3>יום 8 — Europa-Park</h3><p>יום פארק ענק עם רכבות הרים, מתקנים ומופעים. כל אחד בוחר את רמת האומץ שלו.</p></div></article>
   <article class="kid-card"><img src="assets/kaysersberg.jpg" alt="יום 9 — קולמר, קופים וקייזרסברג"><div><span class="kid-icon">🐒</span><h3>יום 9 — קולמר, קופים וכפר אגדה</h3><p>יום אלזס: עיר צבעונית בשם קולמר, קופים שמסתובבים ביער, ואז בוחרים כפר קטן כמו Kaysersberg, Riquewihr או Ribeauvillé.</p></div></article>
   <article class="kid-card"><img src="assets/rulantica_new.jpg" alt="יום 10 — Rulantica או עוד Europa-Park"><div><span class="kid-icon">🌊</span><h3>יום 10 — Rulantica או עוד Europa-Park</h3><p>אם רוצים מים או שיש מזג אוויר פחות טוב — Rulantica. אם רוצים עוד מתקנים — חוזרים ל־Europa-Park.</p></div></article>
-  <article class="kid-card"><img src="assets/strasbourg.jpg" alt="יום 11 — שטרסבורג"><div><span class="kid-icon">🚋</span><h3>יום 11 — שטרסבורג</h3><p>חונים בגרמניה, נוסעים בחשמלית לעיר, מתחילים בקניון Place des Halles ואם יש כוח רואים גם את הקתדרלה ו־Petite France.</p></div></article>
+  <article class="kid-card"><img src="assets/strasbourg.jpg" alt="יום 11 — שטרסבורג"><div><span class="kid-icon">🌉</span><h3>יום 11 — שטרסבורג</h3><p>חונים בגרמניה, נוסעים בחשמלית, מתחילים ב־Petite France היפה, רואים את הקתדרלה ואז מסיימים בקניות ו־Sephora.</p></div></article>
   <article class="kid-card"><img src="assets/zurich_airport.jpg" alt="יום 12 — חוזרים הביתה"><div><span class="kid-icon">🧳</span><h3>יום 12 — חוזרים הביתה</h3><p>עושים צ׳ק־אאוט, נוסעים לשדה בציריך, מחזירים רכבים וטסים הביתה.</p></div></article>
 </div><div class="game"><div><h3>מיני־משחק: מי המקום?</h3><p id="game-question">לחצו על תשובה. בכל שאלה תקבלו רמז על מקום בטיול.</p><div class="answers" id="game-answers"></div></div><div class="game-result"><div class="score" id="game-score">0/0</div><p id="game-feedback">מתחילים? נסו לנחש לפי הרמז.</p><div class="stamp-row" id="game-stamps"><span class="stamp">🏞</span><span class="stamp">🏘</span><span class="stamp">🎢</span><span class="stamp">🌊</span></div></div></div></div></section>
 <section class="section shell"><div class="section-head"><div><div class="overline">גלריית השראה</div><h2>גלריית השראה</h2></div><p class="section-note">תמונות יעד מדויקות יותר, עם מקום להחליף בהמשך לתמונות רשמיות או משפחתיות.</p></div><div class="gallery"><figure><img src="assets/titisee.jpg" alt="טיטיזה"><figcaption>אגם טיטיזה</figcaption></figure><figure><img src="assets/titisee_candidate_1.jpg" alt="טיטיזה צבעוני"><figcaption>טיטיזה — רגע על האגם</figcaption></figure><figure><img src="assets/titisee_candidate_5.jpg" alt="טיטיזה והיער השחור"><figcaption>טיטיזה — אווירת חופשה</figcaption></figure><figure><img src="assets/feldberg.jpg" alt="פלדברג"><figcaption>פלדברג</figcaption></figure><figure><img src="assets/colmar.jpg" alt="קולמר"><figcaption>קולמר</figcaption></figure><figure><img src="assets/riquewihr.jpg" alt="ריקוויר"><figcaption>כפר אלזסי</figcaption></figure><figure><img src="assets/strasbourg.jpg" alt="שטרסבורג"><figcaption>שטרסבורג</figcaption></figure><figure><img src="assets/europa_park_new.jpg" alt="Europa-Park"><figcaption>Europa-Park</figcaption></figure><figure><img src="assets/rulantica_new.jpg" alt="Rulantica"><figcaption>Rulantica</figcaption></figure><figure><img src="assets/fashion_food_festival_header.jpg" alt="Fashion & Food Festival Freiburg"><figcaption>Fashion & Food Festival Freiburg</figcaption></figure><figure><img src="assets/freiburg_kajo_festival_shopping.jpg" alt="פרייבורג ביום פסטיבל"><figcaption>פרייבורג — רחובות וקניות</figcaption></figure><figure><img src="assets/freiburg_festival_parking.jpg" alt="שילוט חניה בפרייבורג"><figcaption>פרייבורג — חניה ושילוט</figcaption></figure></div></section>
@@ -745,7 +744,7 @@
     openGuideByHash(window.location.hash,false);
   }
   function initDayGuideLinks(){
-    const guideLinksByDay={'2026-09-23':[{label:'Tatzmania',href:'#guide-tatzmania-red-card'},{label:'Titisee / שייט',href:'#guide-titisee-boat-red-card'},{label:'Feldberg',href:'#guide-feldberg-red-card'},{label:'Fundorena',href:'#guide-fundorena-red-card'}],'2026-09-24':[{label:'Hasenhorn',href:'#guide-hasenhorn-tickets'},{label:'BLACKFORESTLINE 🎟 Red Card',href:'#guide-blackforestline-red-card'},{label:'Todtnau',href:'#guide-todtnau-waterfalls'},{label:'Titisee',href:'#guide-titisee-boat-red-card'}],'2026-09-25':[{label:'Lindt',href:'#guide-lindt-home-of-chocolate'},{label:'Rhine Falls',href:'#guide-rhine-falls'},{label:'Adventure Park',href:'#guide-adventure-park-rheinfall'},{label:'Stein am Rhein',href:'#guide-stein-am-rhein'},{label:'Fashion & Food Festival',href:'#guide-fashion-food-festival'}],'2026-09-26':[{label:'Vogelpark Steinen',href:'#guide-vogelpark-steinen'},{label:'Steinwasen Park',href:'#guide-steinwasen-red-card'},{label:'Fashion & Food Festival',href:'#guide-fashion-food-festival'}],'2026-09-27':[{label:'Badeparadies',href:'#guide-badeparadies-tickets'}],'2026-09-28':[{label:'Freiburg / Schauinsland',href:'#guide-freiburg-and-schauinsland'}],'2026-09-29':[{label:'Europa-Park',href:'#guide-europa-park'}],'2026-09-30':[{label:'Colmar',href:'#guide-colmar'},{label:'Montagne des Singes',href:'#guide-montagne-des-singes'},{label:'Kaysersberg / כפר אלזסי',href:'#guide-alsace-village'}],'2026-10-01':[{label:'Rulantica',href:'#guide-rulantica'},{label:'Europa-Park',href:'#guide-europa-park'}],'2026-10-02':[{label:'Kehl + Tram D',href:'#guide-strasbourg'},{label:'Strasbourg shopping',href:'#guide-strasbourg'},{label:'Batorama',href:'#guide-batorama'}]};
+    const guideLinksByDay={'2026-09-23':[{label:'Tatzmania',href:'#guide-tatzmania-red-card'},{label:'Titisee / שייט',href:'#guide-titisee-boat-red-card'},{label:'Feldberg',href:'#guide-feldberg-red-card'},{label:'Fundorena',href:'#guide-fundorena-red-card'}],'2026-09-24':[{label:'Hasenhorn',href:'#guide-hasenhorn-tickets'},{label:'BLACKFORESTLINE 🎟 Red Card',href:'#guide-blackforestline-red-card'},{label:'Todtnau',href:'#guide-todtnau-waterfalls'},{label:'Titisee',href:'#guide-titisee-boat-red-card'}],'2026-09-25':[{label:'Lindt',href:'#guide-lindt-home-of-chocolate'},{label:'Rhine Falls',href:'#guide-rhine-falls'},{label:'Adventure Park',href:'#guide-adventure-park-rheinfall'},{label:'Stein am Rhein',href:'#guide-stein-am-rhein'},{label:'Fashion & Food Festival',href:'#guide-fashion-food-festival'}],'2026-09-26':[{label:'Vogelpark Steinen',href:'#guide-vogelpark-steinen'},{label:'Steinwasen Park',href:'#guide-steinwasen-red-card'},{label:'Fashion & Food Festival',href:'#guide-fashion-food-festival'}],'2026-09-27':[{label:'Badeparadies',href:'#guide-badeparadies-tickets'}],'2026-09-28':[{label:'Freiburg / Schauinsland',href:'#guide-freiburg-and-schauinsland'}],'2026-09-29':[{label:'Europa-Park',href:'#guide-europa-park'}],'2026-09-30':[{label:'Colmar',href:'#guide-colmar'},{label:'Montagne des Singes',href:'#guide-montagne-des-singes'},{label:'Kaysersberg / כפר אלזסי',href:'#guide-alsace-village'}],'2026-10-01':[{label:'Rulantica',href:'#guide-rulantica'},{label:'Europa-Park',href:'#guide-europa-park'}],'2026-10-02':[{label:'Petite France → Sephora',href:'#guide-strasbourg'},{label:'Kehl + Tram D',href:'#guide-strasbourg'},{label:'Batorama',href:'#guide-batorama'}]};
     Object.entries(guideLinksByDay).forEach(([date,links])=>{
       const details=document.querySelector('#day-'+date+' .day-details');
       if(!details || details.querySelector('.day-guide-links')) return;
@@ -770,7 +769,7 @@
     {date:'2026-09-29', label:'29.09 · שלישי', title:'Europa-Park', summary:'יום פארק מלא — שיא מספר 1 מבסיס Hotel La Toscana.'},
     {date:'2026-09-30', label:'30.09 · רביעי', title:'Colmar + Montagne des Singes + כפר לבחירה', summary:'יום אלזס עם קולמר, פארק הקופים וכפר אחד קצר: Kaysersberg / Riquewihr / Ribeauvillé.'},
     {date:'2026-10-01', label:'01.10 · חמישי', title:'Rulantica או Europa-Park נוסף', summary:'יום בחירה לפי מזג אוויר ורצון הקבוצה: מים מקורה או עוד יום פארק.'},
-    {date:'2026-10-02', label:'02.10 · שישי', title:'Strasbourg דרך Kehl + Tram D', summary:'חונים ב־Kehl, נוסעים ב־Tram D ל־Place des Halles, קניות במרכז ואז Cathedral / Petite France רק אם יש כוח.'},
+    {date:'2026-10-02', label:'02.10 · שישי', title:'Strasbourg: Petite France → Sephora', summary:'חונים ב־Kehl, Tram D ל־Homme de Fer, מתחילים ב־Petite France, עוברים בקתדרלה ומסיימים ב־Sephora / Place des Halles.'},
     {date:'2026-10-03', label:'03.10 · שבת', title:'חזרה מ־Hotel La Toscana לציריך וטיסה', summary:'צ׳ק־אאוט ברינגסהיים, נסיעה לציריך, החזרת רכב וטיסה.'}
   ];
   const tripStart=new Date('2026-09-22T00:00:00');
